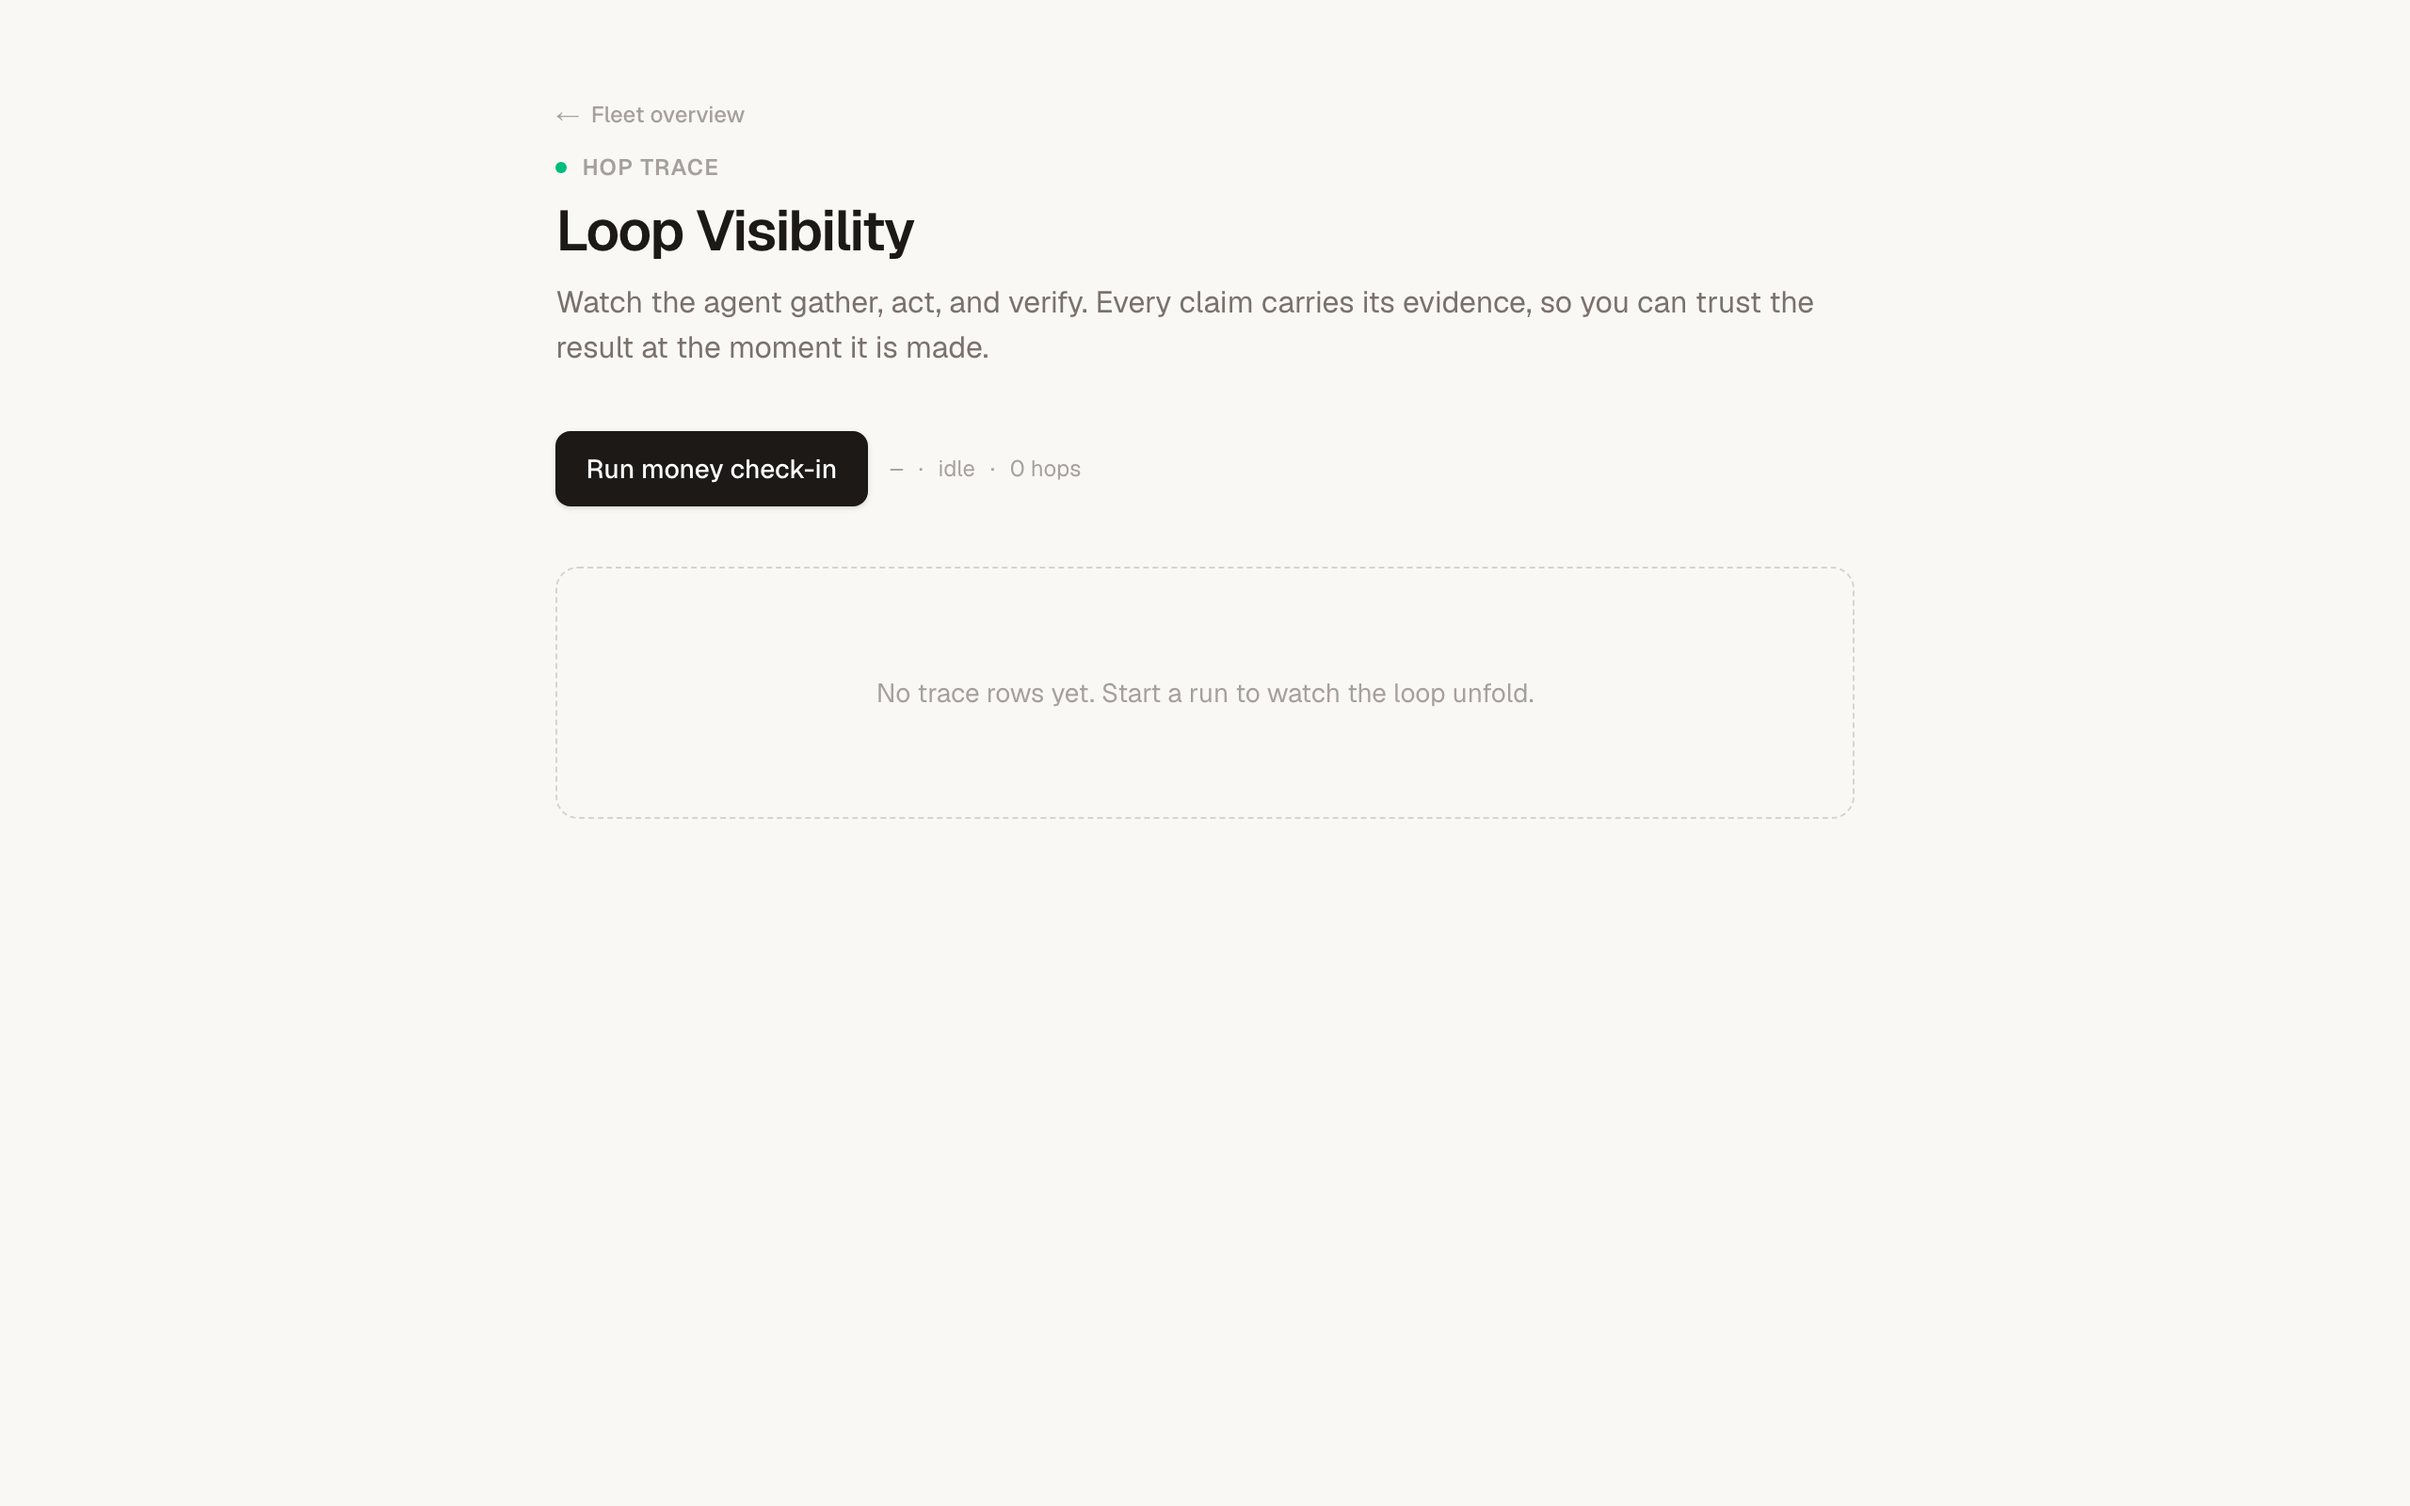
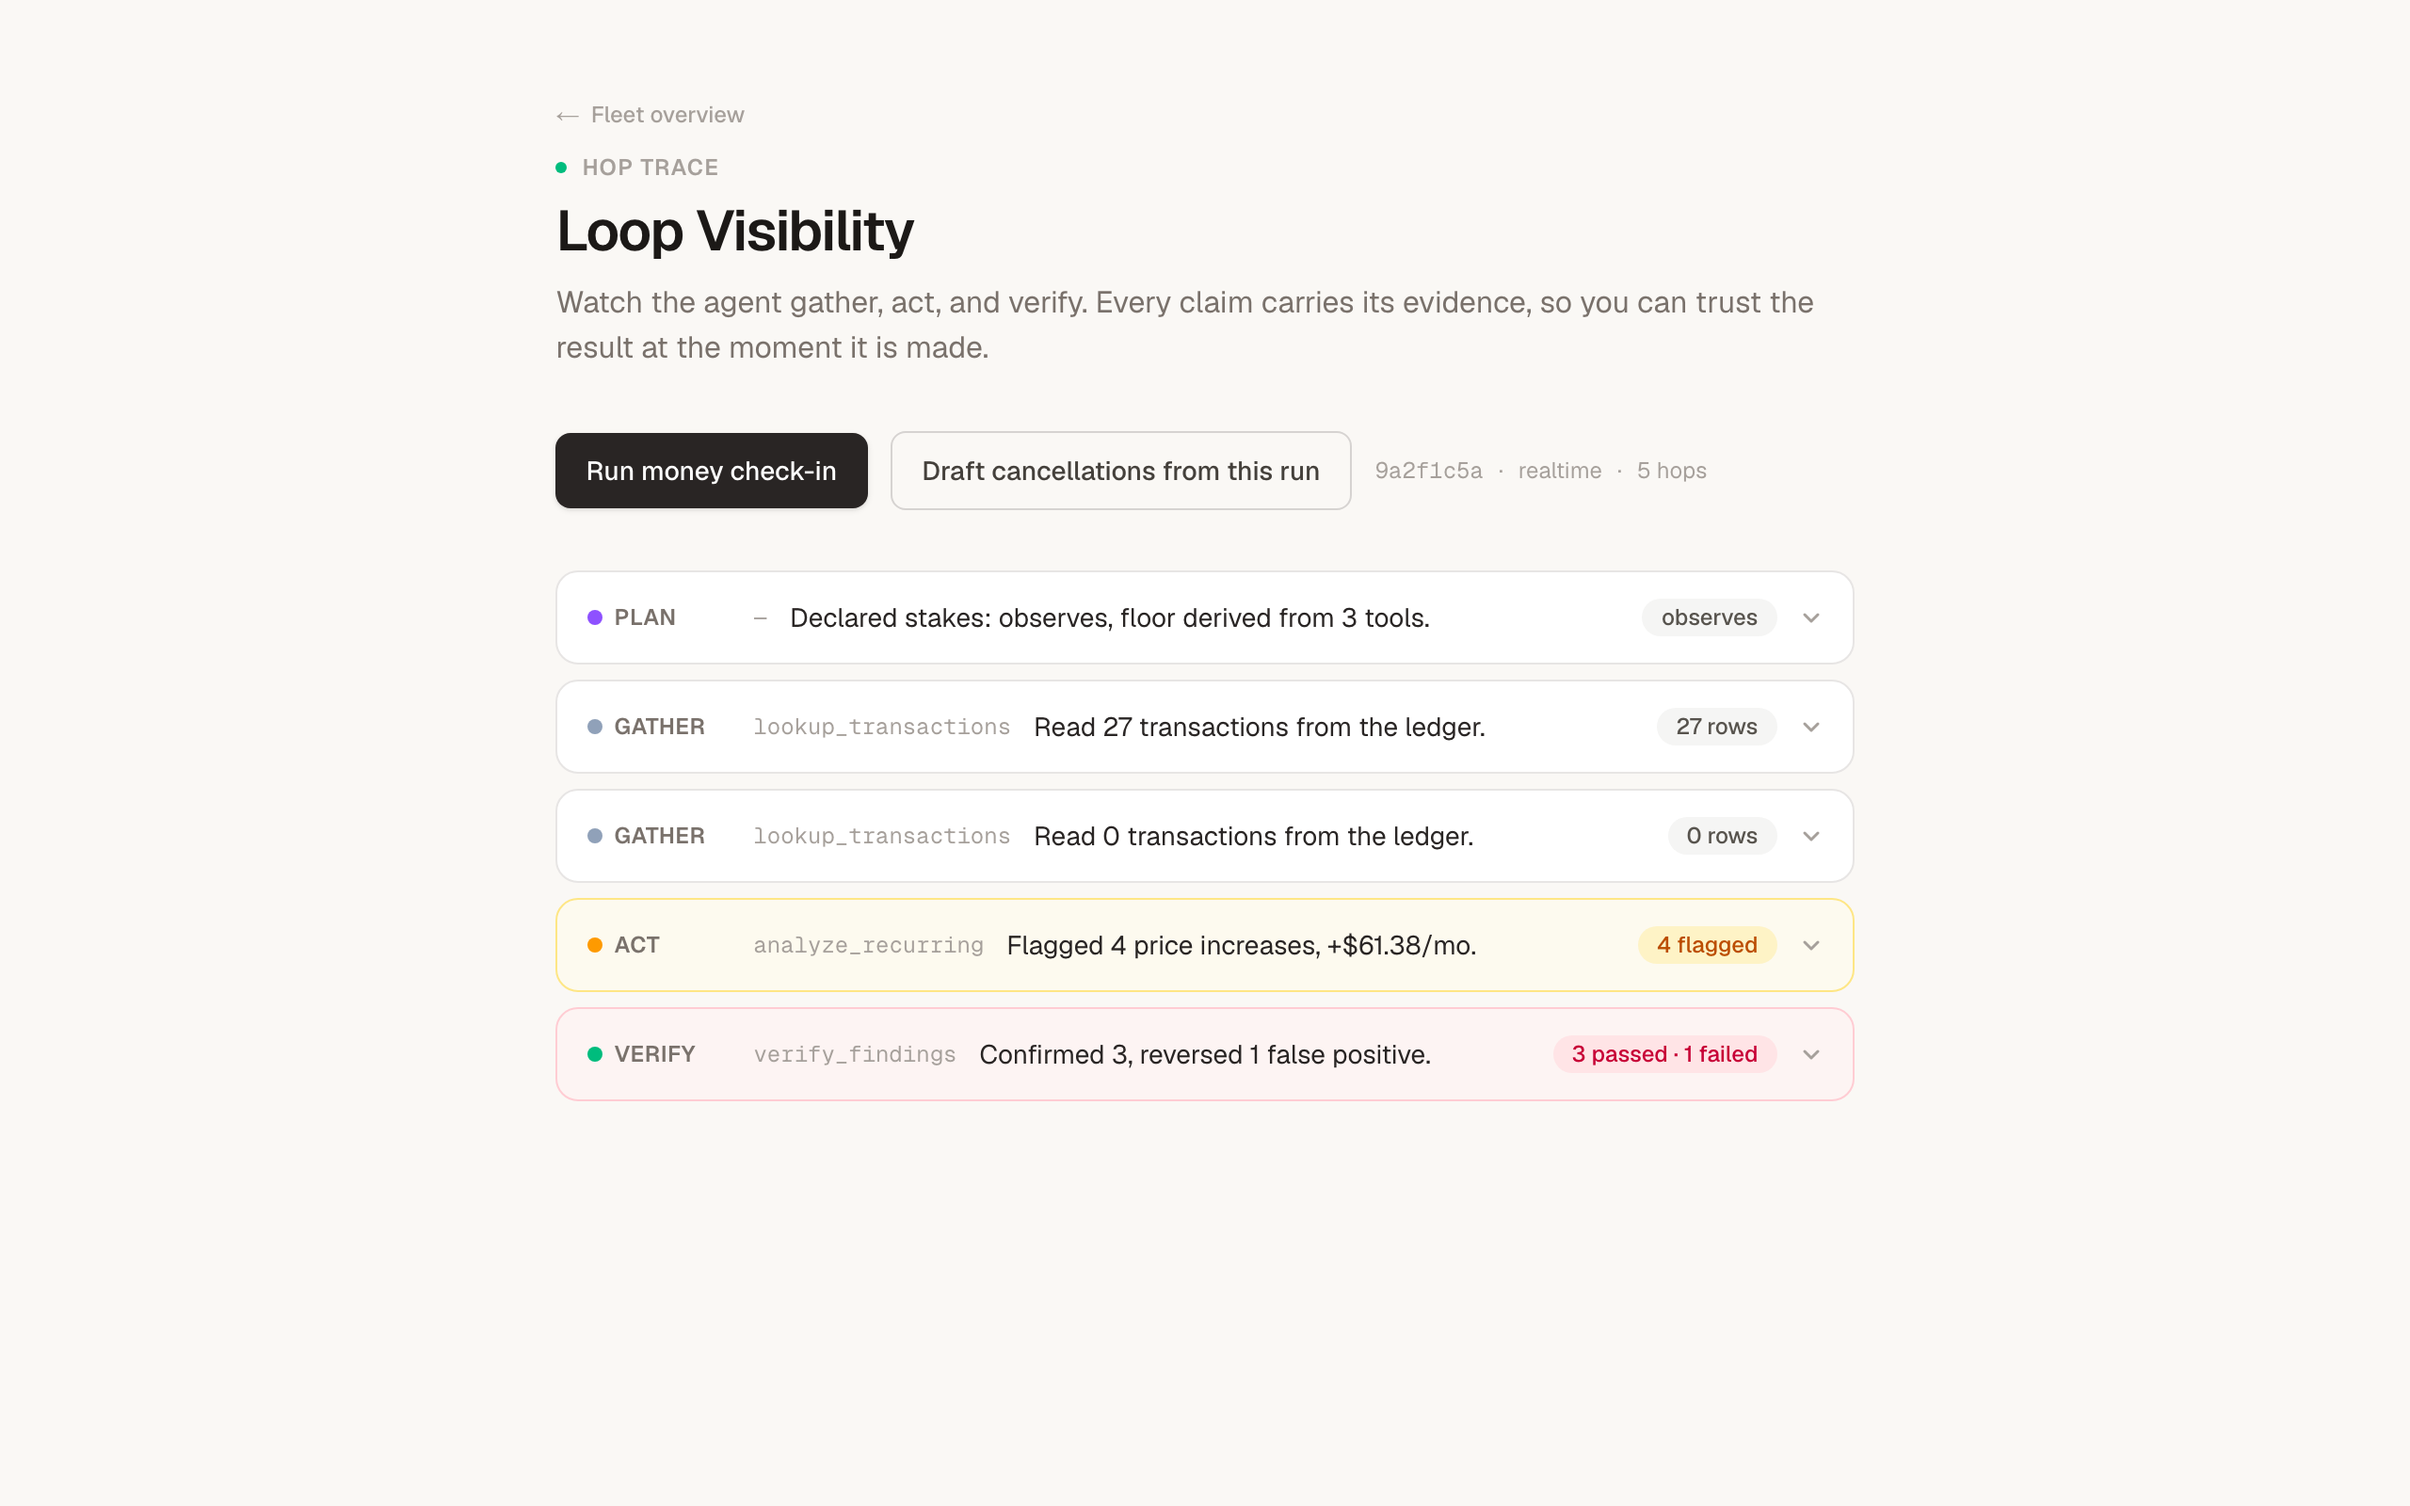
Anchor v1.1: demo recaptured in collapsed state with one expanded evidence frame

diff --git a/checker/capture-anchors.ts b/checker/capture-anchors.ts
@@ -9,13 +9,15 @@ const DEVICE_SCALE_FACTOR = 2;
 const DEMO_ORIGIN = "https://loop-visibility.vercel.app";
 const DEMO_PATH = "/run";
 
+type TargetId = "timeline-v1" | "demo-v1";
+
 type Target = {
-  id: "timeline-v1" | "demo-v1";
+  id: TargetId;
   url: string;
   outDir: string;
 };
 
-function outDirFor(id: Target["id"]): string {
+function outDirFor(id: TargetId): string {
   return path.join(process.cwd(), "anchors", id);
 }
 
@@ -40,6 +42,14 @@ function siteCommit(siteSrc: string | undefined): { hash: string; subject: strin
 
 function delay(ms: number) {
   return new Promise((r) => setTimeout(r, ms));
+}
+
+function onlyArg(): TargetId | null {
+  const flag = process.argv.find((a) => a.startsWith("--only="));
+  if (!flag) return null;
+  const value = flag.slice("--only=".length);
+  if (value === "timeline-v1" || value === "demo-v1") return value;
+  throw new Error(`unknown --only target: ${value}`);
 }
 
 async function settle(page: Page) {
@@ -67,66 +77,129 @@ async function settle(page: Page) {
   await delay(400);
 }
 
-async function scrollThrough(page: Page) {
-  const { scrollHeight, clientHeight } = await page.evaluate(() => ({
-    scrollHeight: Math.max(document.documentElement.scrollHeight, document.body.scrollHeight),
-    clientHeight: document.documentElement.clientHeight,
-  }));
-  const step = Math.max(clientHeight, 1);
-  const maxY = Math.max(0, scrollHeight - clientHeight);
-  let y = 0;
-  let n = 0;
-  while (y < maxY && n < 50) {
-    y = Math.min(y + step, maxY);
-    await page.evaluate((t) => window.scrollTo(0, t), y);
-    await delay(150);
-    n += 1;
-  }
-  await page.evaluate(() => window.scrollTo(0, 0));
-  await delay(200);
+async function bodyText(page: Page): Promise<string> {
+  return page.locator("body").innerText();
 }
 
-async function captureTarget(page: Page, target: Target) {
-  fs.mkdirSync(target.outDir, { recursive: true });
-  for (const name of fs.readdirSync(target.outDir)) {
-    if (name.endsWith(".png")) fs.unlinkSync(path.join(target.outDir, name));
+function isEmptyDemo(text: string): boolean {
+  return /no trace rows yet/i.test(text);
+}
+
+function isRunningDemo(text: string): boolean {
+  return /running/i.test(text) && !isEmptyDemo(text);
+}
+
+function isCompleteDemo(text: string): boolean {
+  return !/running/i.test(text) && !isEmptyDemo(text);
+}
+
+async function waitForDemo(page: Page, pred: (text: string) => boolean, label: string, timeoutMs: number): Promise<string> {
+  const start = Date.now();
+  let last = "";
+  while (Date.now() - start < timeoutMs) {
+    last = await bodyText(page);
+    if (pred(last)) return last;
+    await delay(1000);
+  }
+  throw new Error(`timed out waiting for ${label}: ${last.replace(/\s+/g, " ").trim().slice(0, 240)}`);
+}
+
+async function startDemoRun(page: Page) {
+  const button = page.getByRole("button", { name: /run money check-in/i });
+  await button.click();
+  console.log("  started money check-in");
+}
+
+function wipePngs(outDir: string) {
+  fs.mkdirSync(outDir, { recursive: true });
+  for (const name of fs.readdirSync(outDir)) {
+    if (name.endsWith(".png")) fs.unlinkSync(path.join(outDir, name));
+  }
+}
+
+type Layout = {
+  scrollHeight: number;
+  clientHeight: number;
+};
+
+async function pageLayout(page: Page): Promise<Layout> {
+  return page.evaluate(() => {
+    const html = document.documentElement;
+    const body = document.body;
+    return {
+      scrollHeight: Math.max(html.scrollHeight, body.scrollHeight),
+      clientHeight: html.clientHeight,
+    };
+  });
+}
+
+async function scrollToY(page: Page, top: number) {
+  await page.evaluate((t) => window.scrollTo(0, t), top);
+}
+
+async function expandVerifyOnly(page: Page) {
+  const verify = page.getByRole("button", { name: /^Verify/i }).first();
+  await verify.click();
+  await delay(400);
+}
+
+async function captureExpandedVerify(page: Page, outDir: string) {
+  await expandVerifyOnly(page);
+  const { scrollHeight, clientHeight } = await pageLayout(page);
+  console.log(`  expanded-verify layout ${scrollHeight}x${clientHeight}`);
+
+  if (scrollHeight > clientHeight) {
+    await scrollToY(page, 0);
+    await delay(200);
+    console.log("  expanded-verify-full.png");
+    await page.screenshot({
+      path: path.join(outDir, "expanded-verify-full.png"),
+      fullPage: true,
+      timeout: 60000,
+    });
   }
 
-  console.log(`  goto`);
-  await page.goto(target.url, { waitUntil: "load", timeout: 45000 });
-  await settle(page);
-  const metrics = await page.evaluate(() => ({
-    scrollHeight: Math.max(document.documentElement.scrollHeight, document.body.scrollHeight),
-    clientHeight: document.documentElement.clientHeight,
-  }));
-  console.log(`  layout ${metrics.scrollHeight}x${metrics.clientHeight}`);
-  await scrollThrough(page);
-  await settle(page);
-
-  console.log(`  full.png`);
+  await page.getByRole("button", { name: /^Verify/i }).first().scrollIntoViewIfNeeded();
+  await delay(200);
+  console.log("  expanded-verify.png");
   await page.screenshot({
-    path: path.join(target.outDir, "full.png"),
+    path: path.join(outDir, "expanded-verify.png"),
+    fullPage: false,
+    timeout: 30000,
+  });
+  await scrollToY(page, 0);
+}
+
+async function captureShots(page: Page, outDir: string, prefix: string) {
+  fs.mkdirSync(outDir, { recursive: true });
+  await settle(page);
+  await scrollToY(page, 0);
+  await delay(200);
+
+  const fullName = `${prefix}full.png`;
+  console.log(`  ${fullName}`);
+  await page.screenshot({
+    path: path.join(outDir, fullName),
     fullPage: true,
     timeout: 60000,
   });
 
-  const { scrollHeight, clientHeight } = await page.evaluate(() => ({
-    scrollHeight: Math.max(document.documentElement.scrollHeight, document.body.scrollHeight),
-    clientHeight: document.documentElement.clientHeight,
-  }));
+  const { scrollHeight, clientHeight } = await pageLayout(page);
   const step = Math.max(clientHeight, VIEWPORT.height);
   const maxY = Math.max(0, scrollHeight - clientHeight);
+  console.log(`  layout ${scrollHeight}x${clientHeight} prefix=${prefix || "(completed)"}`);
 
   let index = 1;
   let y = 0;
   while (true) {
     const top = Math.min(y, maxY);
-    await page.evaluate((t) => window.scrollTo(0, t), top);
+    await scrollToY(page, top);
     await delay(200);
     const num = String(index).padStart(2, "0");
-    console.log(`  section-${num}.png @ ${top}`);
+    const name = `${prefix}section-${num}.png`;
+    console.log(`  ${name} @ ${top}`);
     await page.screenshot({
-      path: path.join(target.outDir, `section-${num}.png`),
+      path: path.join(outDir, name),
       fullPage: false,
       timeout: 30000,
     });
@@ -136,11 +209,54 @@ async function captureTarget(page: Page, target: Target) {
     if (index > 50) break;
   }
 
-  await page.evaluate(() => window.scrollTo(0, 0));
+  await scrollToY(page, 0);
+}
+
+async function captureTimeline(page: Page, target: Target) {
+  wipePngs(target.outDir);
+  console.log("  goto");
+  await page.goto(target.url, { waitUntil: "load", timeout: 45000 });
+  await settle(page);
+  await scrollThrough(page);
+  await captureShots(page, target.outDir, "");
+}
+
+async function scrollThrough(page: Page) {
+  const { scrollHeight, clientHeight } = await pageLayout(page);
+  const step = Math.max(clientHeight, 1);
+  const maxY = Math.max(0, scrollHeight - clientHeight);
+  let y = 0;
+  let n = 0;
+  while (y < maxY && n < 50) {
+    y = Math.min(y + step, maxY);
+    await scrollToY(page, y);
+    await delay(150);
+    n += 1;
+  }
+  await scrollToY(page, 0);
+  await delay(200);
+}
+
+async function captureDemo(page: Page, target: Target) {
+  wipePngs(target.outDir);
+  console.log("  goto");
+  await page.goto(target.url, { waitUntil: "load", timeout: 45000 });
+  await settle(page);
+  await startDemoRun(page);
+  const running = await waitForDemo(page, isRunningDemo, "in-progress trace", 60000);
+  console.log(`  running: ${running.replace(/\s+/g, " ").trim().slice(0, 180)}`);
+  await delay(800);
+  await captureShots(page, target.outDir, "running-");
+  const complete = await waitForDemo(page, isCompleteDemo, "completed trace", 180000);
+  console.log(`  complete: ${complete.replace(/\s+/g, " ").trim().slice(0, 180)}`);
+  await delay(800);
+  await captureShots(page, target.outDir, "");
+  await captureExpandedVerify(page, target.outDir);
 }
 
 async function main() {
-  const targets: Target[] = [
+  const only = onlyArg();
+  const all: Target[] = [
     {
       id: "timeline-v1",
       url: timelineUrl(),
@@ -152,10 +268,12 @@ async function main() {
       outDir: outDirFor("demo-v1"),
     },
   ];
+  const targets = only ? all.filter((t) => t.id === only) : all;
 
   const commit = siteCommit(process.env.SITE_SRC);
   console.log(`demo path: ${DEMO_PATH} (hop-trace UI; / is fleet overview)`);
   console.log(`site commit: ${commit ? `${commit.hash} ${commit.subject}` : "unavailable"}`);
+  if (only) console.log(`only: ${only}`);
 
   const browser = await chromium.launch();
   const context = await browser.newContext({
@@ -170,7 +288,8 @@ async function main() {
   try {
     for (const target of targets) {
       console.log(`capturing ${target.id}`);
-      await captureTarget(page, target);
+      if (target.id === "demo-v1") await captureDemo(page, target);
+      else await captureTimeline(page, target);
       const files = fs.readdirSync(target.outDir).filter((f) => f.endsWith(".png")).sort();
       console.log(`  ${files.length} pngs: ${files.join(", ")}`);
     }

diff --git a/anchors/MANIFEST.md b/anchors/MANIFEST.md
@@ -20,5 +20,8 @@ Re-anchoring is an explicit versioned act; see signature-anchors clause.
 - URL: https://loop-visibility.vercel.app/run
 - Path used: `/run`. That route is the hop-trace UI (label “HOP TRACE”, dashed trace well). `/` is the fleet overview, not the trace surface.
 - The demo’s repo lives separately from this contract and from the portfolio site.
-- Load note: the page loads empty by default (idle, 0 hops, “No trace rows yet. Start a run to watch the loop unfold.”). Capture is of that empty state; a run was not scripted.
-- Files: `full.png`, `section-01.png` (page height equals the viewport)
+- Recaptured 2026-09-02 by starting a money check-in on `/run`. Captures include a mid-run frame, the completed trace with hops collapsed, and one expanded-evidence frame.
+- State choice: the primary completed freeze is the collapsed hop list — the surface’s default read. A fully expanded capture buried that composition under many screenfuls of raw INPUT/OUTPUT JSON and would hand the judge a monospace payload instead of the product UI. One extra frame expands only VERIFY, so the evidence-beside-the-verdict claim is in the set without dominating it.
+- In-progress (`running-*`): status Running…, run `9a2f1c5a`, realtime, 1 hop; PLAN row plus “Agent is gathering transactions…”. Page height 800px. Files: `running-full.png`, `running-section-01.png`.
+- Completed, collapsed (`full.png`, `section-*`): same run `9a2f1c5a`, 5 hops (PLAN, GATHER, GATHER, ACT, VERIFY), all rows collapsed. Page height 800px. Files: `full.png`, `section-01.png`.
+- Expanded evidence (`expanded-verify*`): same run, only VERIFY open (evidence cards: AWS Reversed; Netflix / NYT / YouTube Premium Confirmed). Raw evidence left closed. Page height 1292px. Files: `expanded-verify.png` (viewport, VERIFY in frame), `expanded-verify-full.png` (full page).
